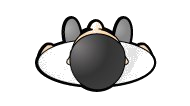
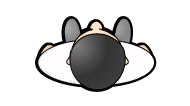
Person rotation

diff --git a/elasticpath/src/human.cpp b/elasticpath/src/human.cpp
@@ -10,6 +10,14 @@ Human::Human(const QRectF &r) : QGraphicsEllipseItem(r)
     setFlag(QGraphicsItem::ItemIsFocusable);
     setCacheMode(DeviceCoordinateCache);
     setAcceptHoverEvents(true);
+	QPixmap pixmap = QPixmap::fromImage(QImage("/home/robocomp/robocomp/components/robocomp-tests/elasticpath/src/person.png")).scaled(800,400);
+    pixmapItem = new QGraphicsPixmapItem( pixmap);
+	pixmapItem->setParentItem(this);
+	pixmapItem->setPos(this->x()-pixmap.width()/2, this->y()-pixmap.height()/2);
+	QTransform t;
+	t.translate(this->boundingRect().center().x(), this->boundingRect().center().y());
+	pixmapItem->setTransform(t);
+
 };
 
 ///////////////////////////////////////////////////////////////////////////////////////7
@@ -18,13 +26,42 @@ Human::Human(const QRectF &r) : QGraphicsEllipseItem(r)
 
 void Human::mousePressEvent(QGraphicsSceneMouseEvent  *event)
 {
+	mouseButton = event->button();
 	if(event->button() == Qt::RightButton)
 	{
-        qDebug() << "hola";
-		// check the item is a person
 		// assign mouse y coordinate to current person angle
+		float angle = this->rotation();
 		// move person angle with mouse y coordinate
 		
 	}
 	QGraphicsItem::mousePressEvent(event);
+}
+void Human::mouseMoveEvent(QGraphicsSceneMouseEvent  *event)
+{
+	qDebug()<<"move";
+	if(mouseButton == Qt::RightButton)
+	{
+		// assign mouse y coordinate to current person angle
+// 		float angle = atan2(event->pos().x(),event->pos().y());
+// 		// move person angle with mouse y coordinate
+// 		float angleDegree = -360/(2*M_PI)*angle + 180;
+// 		qDebug()<<angle<<angleDegree;
+// 		this->setRotation(angleDegree);
+		qDebug()<<"y pose"<<event->pos().y();
+		float angleDegree = this->rotation() + event->pos().y()/8;
+		if (angleDegree > 360) angleDegree = 360;
+		if (angleDegree < 0) angleDegree = 0;
+		qDebug()<<"angle"<<angleDegree;
+		
+// 		float angle = atan2(pos.y(),pos.x())*180/M_PI + 90;
+// 		int angle2 = (int(angle)+360) % 360;
+// 		qDebug()<<"angle"<<angle;
+// 		t.rotate(angle2);
+// 		t.translate(-center.x(), -center.y());
+// 		
+		pixmapItem->setRotation(angleDegree);
+		
+		
+	}
+	QGraphicsItem::mouseMoveEvent(event);
 }

diff --git a/elasticpath/src/specificworker.cpp b/elasticpath/src/specificworker.cpp
@@ -114,13 +114,11 @@ void SpecificWorker::initialize(int period)
 	target->setZValue(1);
 
     //People
-    QPixmap pixmap = QPixmap::fromImage(QImage("/home/robocomp/robocomp/components/robocomp-tests/elasticpath/src/person.png")).scaled(800,400);
-    QGraphicsPixmapItem* p1 = new QGraphicsPixmapItem( pixmap);
     //p1->setFlag(QGraphicsItem::ItemIsMovable);
 	// humanA = new Human();
 	// scene.addItem(humanA);
-	humanA = new Human(QRectF(-100,-100,200,200));
-	humanA->setBrush(QColor("Blue"));
+	humanA = new Human(QRectF(-400,-400,800,800));
+	//humanA->setBrush(QColor("Blue"));
 	scene.addItem(humanA);
 	//scene.addEllipse(QRectF(-100,-100,400,400), QPen(Qt::blue), QBrush(QColor("blue")));
  	//p1->setParentItem(humanA);

diff --git a/elasticpath/src/human.h b/elasticpath/src/human.h
@@ -29,9 +29,11 @@ class Human : public QObject, public QGraphicsEllipseItem
 	public:
 		Human(const QRectF &r);
 	private:
-
+		QGraphicsPixmapItem* pixmapItem;
+		Qt::MouseButton mouseButton;
     protected:
         void mousePressEvent(QGraphicsSceneMouseEvent  *event) override;
+		void mouseMoveEvent(QGraphicsSceneMouseEvent  *event) override;
 		// QRectF boundingRect() const override {return QRectF( -20, -20, 20, 20);};
 		// void paint(QPainter* painter, const QStyleOptionGraphicsItem*, QWidget*) override
 		// { 
